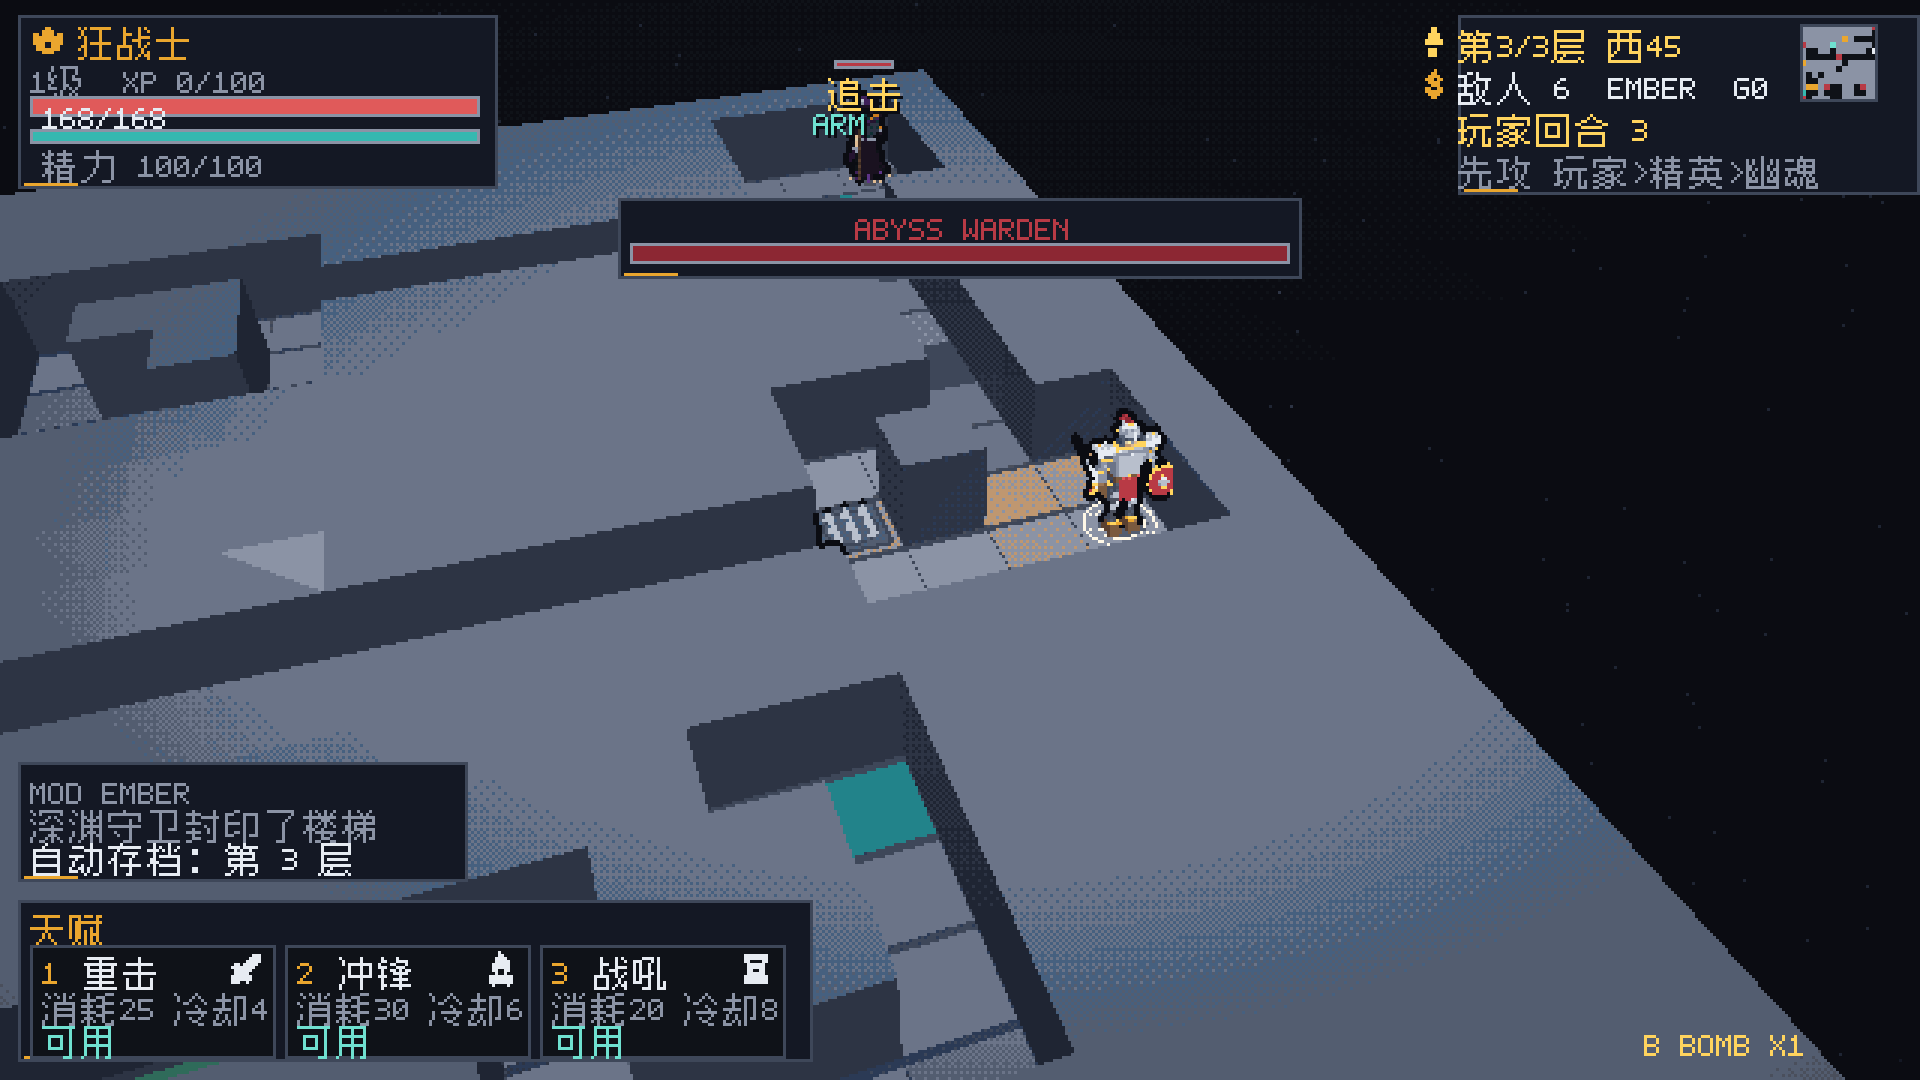
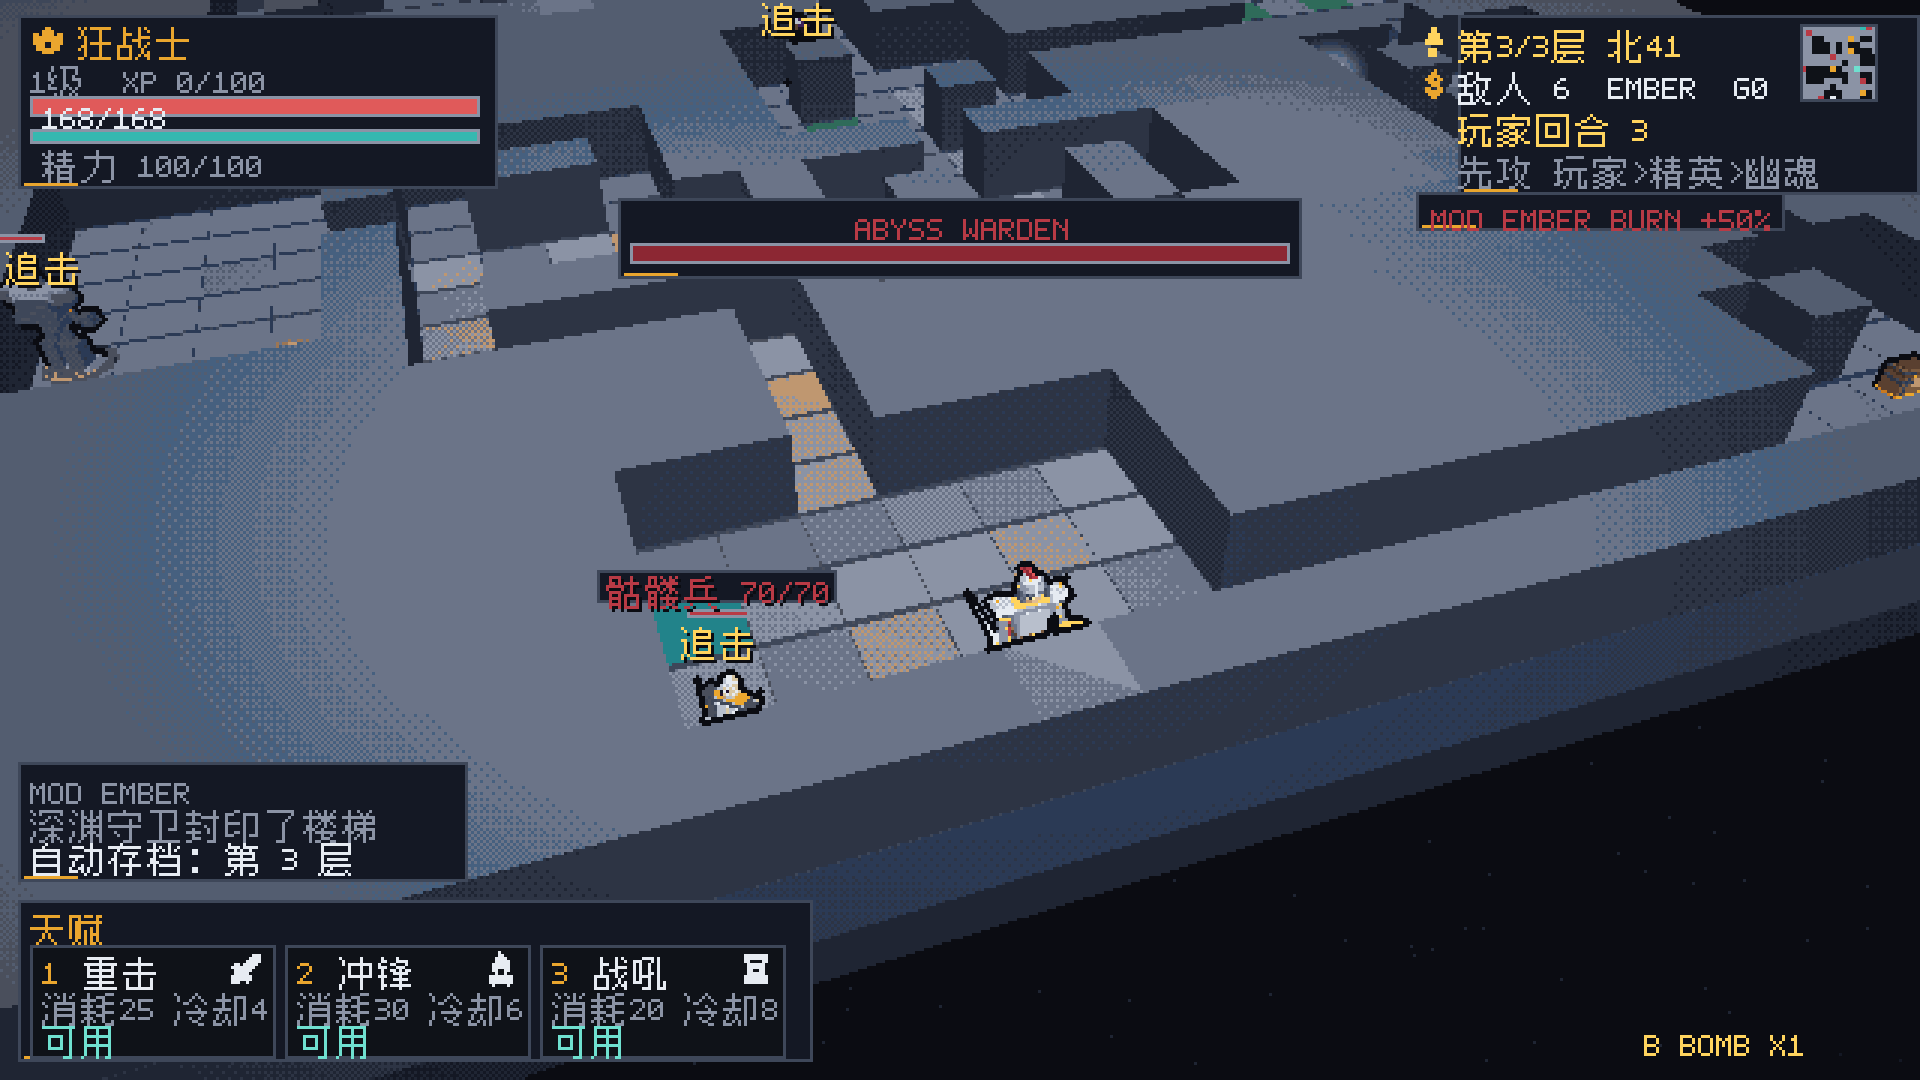
feat: floor mod HUD badge

diff --git a/docs/MECHANISMS.md b/docs/MECHANISMS.md
@@ -302,7 +302,7 @@ raw
 已落地契约（难度/楼层词条/诅咒箱，M9）：
 
 - 难度：Difficulty 只缩放敌人 HP/伤害（hard 1.15/1.08，easy 0.80/0.90），在 spawnEnemyAt 读取；不改变 AI/掉落。
-- FloorMod：由 seed/floor 确定性选择 EMBER/FROST/MIASMA/GILDED/BLOODMOON；分别缩放灼烧、敌人速度、玩家资源回复、金币、击杀 XP（各 1.5x）；第 1 层为 none。
+- FloorMod：由 seed/floor 确定性选择 EMBER/FROST/MIASMA/GILDED/BLOODMOON；分别缩放灼烧、敌人速度、玩家资源回复、金币、击杀 XP（各 1.5x）；第 1 层为 none。HUD 右上角显示彩色 MOD 徽标与效果（BURN/SPD/RES/GOLD/XP）。
 - 诅咒宝箱（CURSED）：seed/floor/chest index 决定 chest_cursed；开箱扣 10% 最大生命、施加 VULN、给 25 金币；普通箱仍回血 25、给 10 金币。
 - 边界：三者都是 M9 的遭遇参数，不进入 M6 公式；楼层切换重新生成，存档保留 floor_mod/chest_cursed。
 - 不做：难度改变地图生成、词条叠加、诅咒箱专属掉落表。
